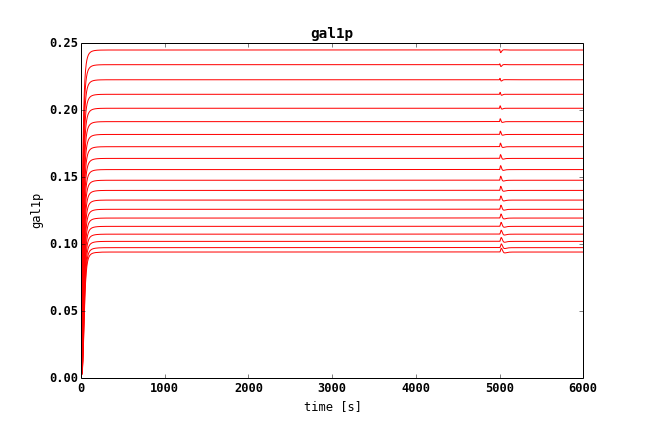
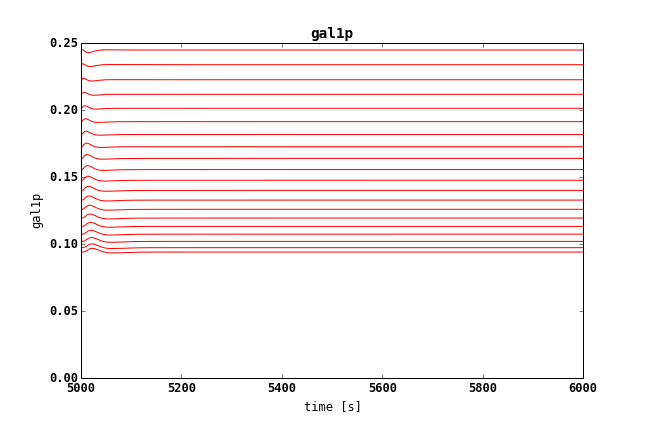
Working on dilution curves

diff --git a/python/simulator/simulator/roadrunner_tools/galactose_dilution_flux.py b/python/simulator/simulator/roadrunner_tools/galactose_dilution_flux.py
@@ -13,6 +13,7 @@ import galactose_functions as gf
 import roadrunner_tools as rt
 import roadrunner_plots as rp
 reload(rp)
+reload(gf)
 
 #########################################################################    
 
@@ -33,6 +34,7 @@ sel = ['time']
 sel += [ "".join(["[", item, "]"]) for item in ['PV__alb', 'PV__gal', 'PV__galM', 'PV__h2oM', 'PV__rbcM', "PV__suc"]]
 sel += [ "".join(["[", item, "]"]) for item in r.model.getBoundarySpeciesIds()]
 sel += [ "".join(["[", item, "]"]) for item in r.model.getFloatingSpeciesIds() if item.startswith('H')]
+sel += [ "".join(["[", item, "]"]) for item in r.model.getFloatingSpeciesIds() if item.startswith('D')]
 sel += [item for item in r.model.getReactionIds() if item.startswith('H')]
 sel += [item for item in r.model.getReactionIds() if item.startswith('D')]
 sel_dict = rt.set_selection(r, sel)
@@ -45,20 +47,24 @@ p_flux = gf.flux_probability(flux)
 # The parameters are extended via the fluxes. I.e. for all fluxes in the
 # flux sample the simulation is performed.
 
+#########################################################################    
+# Set parameters and integrate
+#########################################################################  
 gal_p_list = []
-# for gal in [0.28]:
-for gal in [0.28, 12.5, 17.5]:
+for gal in [0.28]:
+# for gal in [0.28, 12.5, 17.5]:
     p_list = []
     for f in flux:
         d = { 
               # 't_duration':0.5,
               "[PP__gal]" : gal, 
               "flow_sin" : f*1E-6 * 0.5,    
-              # "y_dis" : 2.5E-6,
-              "y_cell" : 0.8*6.19E-6,
+              "y_dis" : 2.5E-6,
+              "y_cell" : 1.4*6.19E-6,
               "scale_f" : 1.0,           
-              "H2OT_f": 15.0,
-              "GLUT2_f" : 8.5, 
+              "H2OT_f": 17.0,
+              "GLUT2_f" : 6, 
+              # "y_peak" : 0.5,
               # "GALK_PA" :  0.02,
               }
         p_list.append(d)
@@ -69,10 +75,14 @@ for k, p_list in enumerate(gal_p_list):
     f_list = [rt.simulation(r, parameters=p, inits=inits, absTol=1E-4, relTol=1E-4) for p in p_list]
     gal_f_list.append(f_list)
 
+# store the parameters
+with open("flux_plots/parameters.txt", 'wb') as f:
+    print>>f, p_list
+
+
 #########################################################################    
 # Average
 #########################################################################  
-
 # Average via probability and flux weighted summation
 Q_sinunit = np.pi * r.y_sin**2 * flux # [m³/s]
 weights = p_flux * Q_sinunit
@@ -82,35 +92,45 @@ compounds = ['gal', 'galM', 'rbcM', 'alb', 'suc', 'h2oM']
 ids = ['[PV__{}]'.format(id) for id in compounds]    
 cols = ['gray', 'black', 'red', 'darkgreen', 'darkorange', 'darkblue']
 
-timepoints=np.arange(T_PEAK-5, T_PEAK+35, 0.05)
+timepoints=np.arange(T_PEAK-5, T_PEAK+35, 0.01)
 av_mats = []
 for f_list in gal_f_list:
     av_mats.append(gf.average_results(f_list, weights, ids, timepoints, sel))
 
-# plot single simulations & average results
-rp.flux_plots(f_list, sel, xlim=[T_PEAK-4, T_PEAK+20])
-rp.average_plots(timepoints, av_mats, [T_PEAK-4, T_PEAK+20])
-
+#########################################################################    
+# Dilution data
+######################################################################### 
 # load experimental data
 exp_file = '/home/mkoenig/multiscale-galactose/results/dilution/Goresky_processed.csv'
 exp_data = rp.load_dilution_data(exp_file)
 # rp.plot_dilution_data(exp_data)
 
-# rectangular peak
-# plot_data_with_sim(exp_data, timepoints, av_mats, scale=20*4.3*15.16943, time_shift=1.3)
-# plot_gal_data_with_sim(exp_data, timepoints, av_mats, scale=20*4.3*15.16943, time_shift=1.3)        
+#########################################################################    
+# Plots
+######################################################################### 
+reload(rp)
+show_plots=True
 
-rp.plot_data_with_sim(exp_data, timepoints, av_mats, scale=4.0*15.16943, time_shift=1.5)
-rp.plot_gal_data_with_sim(exp_data, timepoints, av_mats, scale=4.0*15.16943, time_shift=1.5)        
+# flux dependency of dilution profiles
+tlim = [T_PEAK-4, T_PEAK+20]
+rp.flux_plots(f_list, sel, xlim=tlim, show=show_plots)
+# average curves
+rp.average_plots(timepoints, av_mats, xlim=tlim, show=show_plots)
 
-rp.plot_data_with_sim(exp_data, timepoints, av_mats, scale=4.5*15.16943, time_shift=1.2)
-rp.plot_gal_data_with_sim(exp_data, timepoints, av_mats, scale=4.5*15.16943, time_shift=1.2)   
+# plot with experimental data
+# rp.plot_data_with_sim(exp_data, timepoints, av_mats, scale=4.0*15.16943, time_shift=1.5)
+# rp.plot_gal_data_with_sim(exp_data, timepoints, av_mats, scale=4.0*15.16943, time_shift=1.5)        
 
-rp.plot_dilution_data(exp_data)
+rp.plot_data_with_sim(exp_data, timepoints, av_mats, scale=3.8*15.16943, time_shift=1.0)
+rp.plot_gal_data_with_sim(exp_data, timepoints, av_mats, scale=3.8*15.16943, time_shift=1.0)   
+ 
 
-r.Vol_cell
 
 # additional information
-rp.flux_plot(f_list, name='GLUT2_GALM', selections=sel)
+# plot single timecourses
+rp.flux_plot(f_list, name='GLUT2_GALM', selections=sel, comp_type="D")
 rp.flux_plot(f_list, name='GALKM', selections=sel)
-rp.flux_plot(f_list, name='galM', selections=sel, xlim=[0,500])
+rp.flux_plot(f_list, name='galM', selections=sel, xlim=tlim)
+
+rp.flux_plot(f_list, name='galM', selections=sel, xlim=tlim, comp_type="H")
+rp.flux_plot(f_list, name='galM', selections=sel, xlim=tlim, comp_type="D")

diff --git a/python/simulator/simulator/roadrunner_tools/roadrunner_plots.py b/python/simulator/simulator/roadrunner_tools/roadrunner_plots.py
@@ -3,8 +3,11 @@ Created on Dec 19, 2014
 
 @author: mkoenig
 '''
-from roadrunner_tools import position_in_list
+from roadrunner_tools import position_in_list, get_ids_from_selection
 
+#########################################################################    
+# General plots
+######################################################################### 
 def plot_all(r, show=True):
     '''
         Plot all timecourses in the last roadrunner integration.
@@ -25,7 +28,32 @@ def plot_all(r, show=True):
         p.show()
 
 
-def flux_plots(f_list, selections, xlim=None, ylim=None):
+#########################################################################    
+# Plots showing flux dependency
+######################################################################### 
+def flux_plot(f_list, selections, name, xlim=None, ylim=None, comp_type='H'):
+    '''
+    Plot a component of the flux curves.
+    '''
+    print '#'*80, '\n', name, '\n', '#'*80
+    ids = get_ids_from_selection(name, selections=selections, comp_type=comp_type)
+    print ids
+    
+    import pylab as p    
+    for s in f_list:
+        times = s['time']
+        for sid in ids:
+            p.plot(times, s[sid], color='black')
+    if xlim:
+        p.xlim(xlim)
+    if ylim:
+        p.ylim(ylim)
+    p.xlabel('time [s]')
+    p.ylabel(name)    
+    p.show()
+
+
+def flux_plots(f_list, selections, xlim=None, ylim=None, show=True):
     ''' 
     Plot perivenious dilution curves.
     '''
@@ -43,36 +71,13 @@ def flux_plots(f_list, selections, xlim=None, ylim=None):
         if ylim:
             p.ylim(ylim)
         p.xlabel('time [s]')
-        p.ylabel(sid)              
-        p.show()
+        p.ylabel(sid) 
+        p.savefig('flux_plots/flux_{}.png'.format(sid), dpi=200)
+        if show:
+            p.show()
 
 
-def flux_plot(f_list, selections, name, xlim=None, ylim=None):
-    '''
-    Plot a component of the flux curves.
-    '''
-    print '#'*80, '\n', name, '\n', '#'*80
-    ids =  [item for item in selections if ( (item.startswith('[H') | item.startswith('H')) 
-                                    & (item.endswith('__{}]'.format(name)) | item.endswith('__{}'.format(name))) )]
-    if len(ids) == 0:
-        ids = [name, ]
-    print ids
-    
-    import pylab as p    
-    for s in f_list:
-        times = s['time']
-        for sid in ids:
-            p.plot(times, s[sid], color='black')
-    if xlim:
-        p.xlim(xlim)
-    if ylim:
-        p.ylim(ylim)
-    p.xlabel('time [s]')
-    p.ylabel(name)    
-    p.show()
-
-
-def average_plots(time, av_mats, xlim=None, ylim=None):
+def average_plots(time, av_mats, xlim=None, ylim=None, show=True):
     ''' 
         Plot of the averate dilution curves 
     '''
@@ -88,7 +93,11 @@ def average_plots(time, av_mats, xlim=None, ylim=None):
         p.xlim(xlim)
     if ylim:
         p.ylim(ylim)
-    p.show()
+    p.xlabel('time [s]')
+    p.ylabel('outflow fraction') 
+    p.savefig('flux_plots/average_plots.png', dpi=200)
+    if show:
+        p.show()
 
 # Load the Goresky experimental data and plot with the curves
 # TODO reading data with csv2rec('exampledata.txt', delimiter='\t')
@@ -157,6 +166,10 @@ def plot_data_with_sim(data, timepoints, av_mats, scale=1.0, time_shift=0.0, t_p
             p.plot([(t+time_shift-t_peak) for t in timepoints], scale*av_mat[:,k] , color=cols[k], label=str(name))
     # p.ylim(0, 0.25)
     p.ylim(0, 17)
+    p.xlabel('time [s]')
+    p.ylabel('outflow fraction') 
+    p.savefig('flux_plots/dilution_01.png', dpi=200)    
+    
     p.show()
 
 def plot_gal_data_with_sim(data, timepoints, av_mats, scale=1.0, time_shift=0.0, t_peak=5000):    
@@ -189,6 +202,10 @@ def plot_gal_data_with_sim(data, timepoints, av_mats, scale=1.0, time_shift=0.0,
             p.plot([(t+time_shift-t_peak) for t in timepoints], scale*av_mat[:,k] , color=cols[k], label=str(name))
     # p.ylim(0, 0.25)
     p.ylim(0, 4)
+    p.xlabel('time [s]')
+    p.ylabel('outflow fraction') 
+    p.savefig('flux_plots/dilution_02.png', dpi=200)        
+    
     p.show()
 
 

diff --git a/python/simulator/simulator/roadrunner_tools/galactose_dilution.py b/python/simulator/simulator/roadrunner_tools/galactose_dilution.py
@@ -20,22 +20,22 @@ print roadrunner.__version__
 
 import roadrunner_tools as rt
 import dilution_plots as dp
-reload(rt)
-reload(dp)
 
 #########################################################################    
-
+# Load model
+#########################################################################    
 VERSION = 92
 NC = 20
 SBML_DIR = '/home/mkoenig/multiscale-galactose-results/tmp_sbml'
 T_PEAK = 5000
 
-
 # sbml_file = SBML_DIR + '/' + 'Galactose_v{}_Nc20_dilution.xml'.format(VERSION)
 sbml_file = SBML_DIR + '/' + 'Galactose_v{}_Nc{}_dilution_gauss.xml'.format(VERSION, NC)
 r = rt.load_model(sbml_file)
 
-# set selection
+#########################################################################    
+# Set selection
+#########################################################################    
 compounds = ['alb', 'gal', 'galM', 'h2oM', 'rbcM', 'suc']
 sel = ['time']
 sel += ['[{}]'.format(item) for item in r.model.getBoundarySpeciesIds()]
@@ -52,16 +52,23 @@ r.selections = sel
 # sel += [ "".join(["[", item, "]"]) for item in r.model.getFloatingSpeciesIds()] 
 # sel += [item for item in rr.model.getReactionIds() if item.startswith('H')]
 
+#########################################################################    
+# Set parameters & simulate
+######################################################################### 
 # set the boundary concentrations
 # PP__gal = (0.28, 5, 12.5, 17.5) # [mM]
 p_list = [
-   { "[PP__gal]" : 0.28, "flow_sin" : 0.5*270E-6, 't_duration':1.0, 'y_dis': 2.0E-6, 'GALK_PA': 0.02},
+   { "[PP__gal]" : 0.28, "flow_sin" : 1.5*0.5*270E-6, 't_duration':0.5, 'y_dis': 1.2E-6},
 ]
+
 inits = {}
 
 # perform simulation
 s_list = [rt.simulation(r, p, inits, absTol=1E-4, relTol=1E-4) for p in p_list]
 
+#########################################################################    
+# Analyse peaks
+######################################################################### 
 # find the maximum of the peaks
 s = s_list[0]
 print '{:20s}{:10s}{:10s}'.format('sid', 'time', 'max')
@@ -74,9 +81,17 @@ for sid in ['[PV__{}]'.format(item) for item in compounds]:
     max_time = times[max_index[0]]
     print '{:20s}{:5.3f}  {:5.3f}'.format(sid, max_time, max_value)
 
-# general plots 
-reload(dp)
+#########################################################################    
+# Plots
+######################################################################### 
+import roadrunner_plots as rp
+# mean curve
 dp.dilution_plot_pppv(s_list, r.selections)
+
+# mean curve with data
+exp_file = '/home/mkoenig/multiscale-galactose/results/dilution/Goresky_processed.csv'
+exp_data = rp.load_dilution_data(exp_file)
+rp.plot_dilution_data(exp_data)
 
 
 # dp.dilution_plot_by_name(s_list, r.selections, name='peak', xlim=[T_PEAK-5, T_PEAK+5])

diff --git a/python/simulator/simulator/roadrunner_tools/dilution_plots.py b/python/simulator/simulator/roadrunner_tools/dilution_plots.py
@@ -4,7 +4,7 @@ Created on Dec 19, 2014
 @author: mkoenig
 '''
 
-from roadrunner_tools import selection_dict
+from roadrunner_tools import get_ids_from_selection, position_in_list
 
 t_peak = 5000
 
@@ -17,6 +17,7 @@ def dilution_plot_pppv(s_list, selections, show=True,
     print '#'*80    
     print 'Dilution curves'
     print '#'*80
+        
     compounds = ['gal', 'galM', 'rbcM', 'alb', 'suc', 'h2oM']
     ccols = ['gray', 'black', 'red', 'darkgreen', 'darkorange', 'darkblue']
     
@@ -47,22 +48,10 @@ def dilution_plot_pppv(s_list, selections, show=True,
     if ylim:
         p.ylim(ylim)
     
-    p.savefig('plots/dilution_plot_pppv.png')
+    p.savefig('plots/dilution_plot_pppv.png', dpi=200)
     if show:
         p.show()
-    
-
-def get_ids_from_selection(name, selections, comp_type='H'):
-    '''
-    Returns the fitting ids from the selection.
-    '''
-    ids = [item for item in selections if ( (item.startswith('[{}'.format(comp_type)) | item.startswith(comp_type)) 
-                                    & (item.endswith('__{}]'.format(name)) | item.endswith('__{}'.format(name))) )]
-    if len(ids) == 0:
-        ids = [name, ]
-    return ids
-    
-    
+  
 
 def dilution_plot_by_name(s_list, selections, name, xlim=[t_peak-5, t_peak+30], comp_type='H'):
     ''' 

diff --git a/python/simulator/simulator/roadrunner_tools/roadrunner_tools.py b/python/simulator/simulator/roadrunner_tools/roadrunner_tools.py
@@ -52,6 +52,16 @@ def selection_dict(selections):
     for k, s in enumerate(selections):
         d[s] = k
     return d
+    
+def get_ids_from_selection(name, selections, comp_type='H'):
+    '''
+    Returns list of ids in selection for given name.
+    '''
+    ids = [item for item in selections if ( (item.startswith('[{}'.format(comp_type)) | item.startswith(comp_type)) 
+                                    & (item.endswith('__{}]'.format(name)) | item.endswith('__{}'.format(name))) )]
+    if len(ids) == 0:
+        ids = [name, ]
+    return ids
 
 #########################################################################    
 # Simulation

diff --git a/python/simulator/simulator/roadrunner_tools/galactose_functions.py b/python/simulator/simulator/roadrunner_tools/galactose_functions.py
@@ -13,10 +13,9 @@ from roadrunner_tools import selection_dict
 ##  Distribution of fluxes  ##################################################
 def flux_sample():
     # definition of fluxes
-    #flux1 = np.arange(start=10, stop=200, step=25)
-    #flux2 = np.arange(start=200, stop=1000, step=100)
-    #flux = np.concatenate((flux1, flux2), axis=0)
-    flux = np.arange(start=10, stop=1220, step=50)
+    
+    # flux = np.arange(start=10, stop=1220, step=50)
+    flux = np.arange(start=10, stop=650, step=50)    
     
     flux = np.sort(flux)
     return flux
